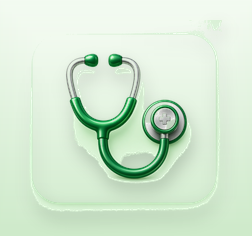
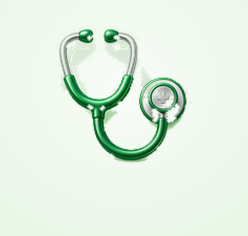
fix(home): unify all 12 tiles on one shared plate
Standardize canvas to 248x236, shared mint plate, consistent icon
fit and label band. Remove nested frames on Messenger and Doctors.
No feature/i18n/payment changes.

diff --git a/index.html b/index.html
@@ -798,52 +798,52 @@ html[data-havkar-entry="home"] .havkar-legal-footer {
     >
 
         <a class="menu-item" href="buy-sell.html">
-            <img src="assets/home/buy-sell.png" alt="" width="252" height="236">
+            <img src="assets/home/buy-sell.png?v=tiles-unified-20261127" alt="" width="248" height="236">
             <span class="tile-label" data-i18n="buySell">Buy &amp; Sell</span>
         </a>
 
         <a class="menu-item" href="jobs.html">
-            <img src="assets/home/jobs.png" alt="" width="248" height="236">
+            <img src="assets/home/jobs.png?v=tiles-unified-20261127" alt="" width="248" height="236">
             <span class="tile-label" data-i18n="jobs">Jobs</span>
         </a>
 
         <a class="menu-item" href="services.html">
-            <img src="assets/home/services.png" alt="" width="268" height="236">
+            <img src="assets/home/services.png?v=tiles-unified-20261127" alt="" width="248" height="236">
             <span class="tile-label" data-i18n="services">Services</span>
         </a>
 
         <a class="menu-item" href="wallet.html">
-            <img src="assets/home/wallet.png" alt="" width="252" height="236">
+            <img src="assets/home/wallet.png?v=tiles-unified-20261127" alt="" width="248" height="236">
             <span class="tile-label" data-i18n="wallet">Wallet</span>
         </a>
 
         <a class="menu-item" href="tickets.html">
-            <img src="assets/home/tickets.png" alt="" width="248" height="236">
+            <img src="assets/home/tickets.png?v=tiles-unified-20261127" alt="" width="248" height="236">
             <span class="tile-label" data-i18n="tickets">Tickets</span>
         </a>
 
         <a class="menu-item" href="accommodation.html">
-            <img src="assets/home/accommodation.png" alt="" width="268" height="236">
+            <img src="assets/home/accommodation.png?v=tiles-unified-20261127" alt="" width="248" height="236">
             <span class="tile-label" data-i18n="accommodation">Accommodation</span>
         </a>
 
         <a class="menu-item" href="ads.html">
-            <img src="assets/home/ads.png" alt="" width="252" height="236">
+            <img src="assets/home/ads.png?v=tiles-unified-20261127" alt="" width="248" height="236">
             <span class="tile-label" data-i18n="ads">Ads</span>
         </a>
 
         <a class="menu-item" href="delivery.html">
-            <img src="assets/home/delivery.png" alt="" width="248" height="236">
+            <img src="assets/home/delivery.png?v=tiles-unified-20261127" alt="" width="248" height="236">
             <span class="tile-label" data-i18n="delivery">Delivery</span>
         </a>
 
         <a class="menu-item" href="events.html">
-            <img src="assets/home/events.png" alt="" width="268" height="236">
+            <img src="assets/home/events.png?v=tiles-unified-20261127" alt="" width="248" height="236">
             <span class="tile-label" data-i18n="events">Events</span>
         </a>
 
         <a class="menu-item" href="chat.html" data-havkar-tile="messenger">
-            <img src="assets/home/chat.png?v=owner-approved-attach-v3-20261127" alt="HAVKAR Messenger" width="248" height="236">
+            <img src="assets/home/chat.png?v=tiles-unified-20261127" alt="HAVKAR Messenger" width="248" height="236">
             <span class="tile-label" data-i18n="Messenger">Messenger</span>
         </a>
 
@@ -851,12 +851,12 @@ html[data-havkar-entry="home"] .havkar-legal-footer {
              Languages / Support / About remain at language.html, support.html, about.html
              and are reached from the Settings hub — pages are not deleted. -->
         <a class="menu-item" href="havkar-ai.html" data-havkar-tile="havkar-ai">
-            <img src="assets/home/havkar-ai.png" alt="" width="248" height="236">
+            <img src="assets/home/havkar-ai.png?v=tiles-unified-20261127" alt="" width="248" height="236">
             <span class="tile-label" data-i18n="havkarAi">HAVKAR AI</span>
         </a>
 
         <a class="menu-item" href="health.html" data-havkar-tile="health">
-            <img src="assets/home/doctors-pharmacies.png" alt="" width="268" height="236">
+            <img src="assets/home/doctors-pharmacies.png?v=tiles-unified-20261127" alt="" width="248" height="236">
             <span class="tile-label" data-i18n="doctorsPharmacies">Doctors &amp; Pharmacies</span>
         </a>
 
